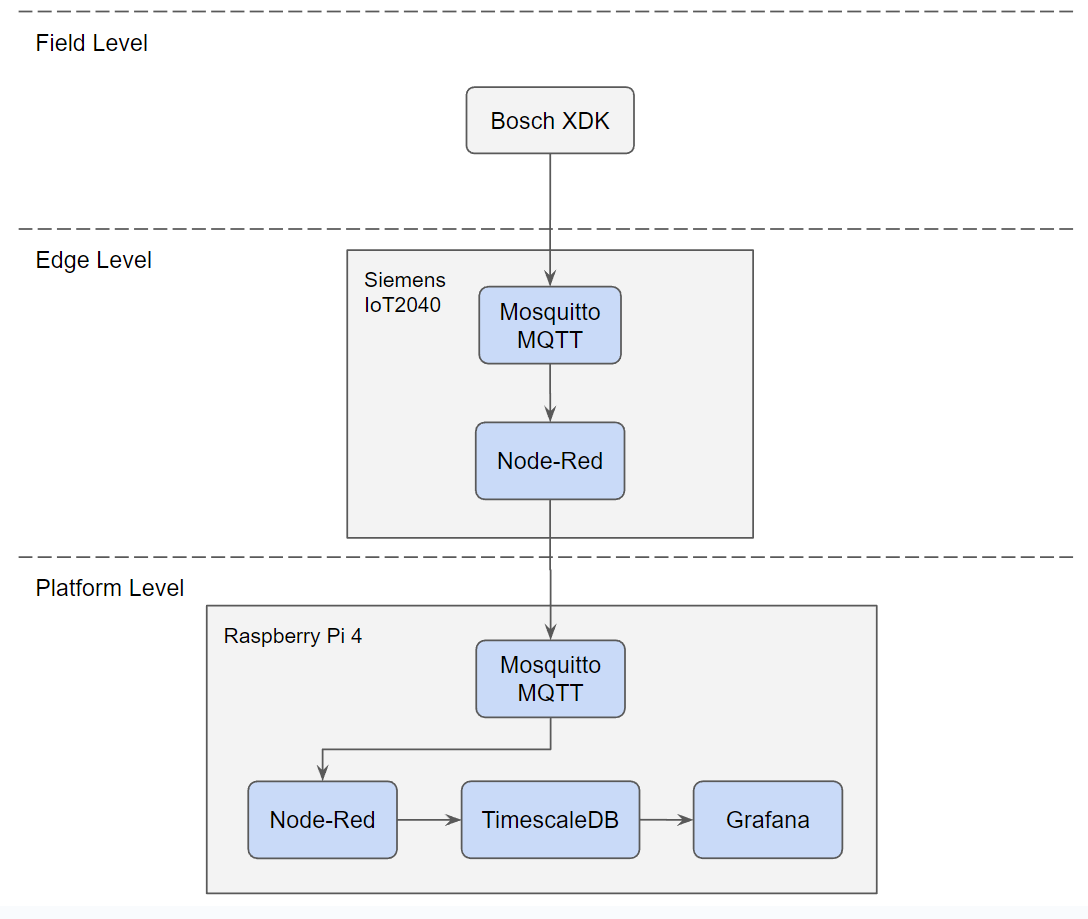
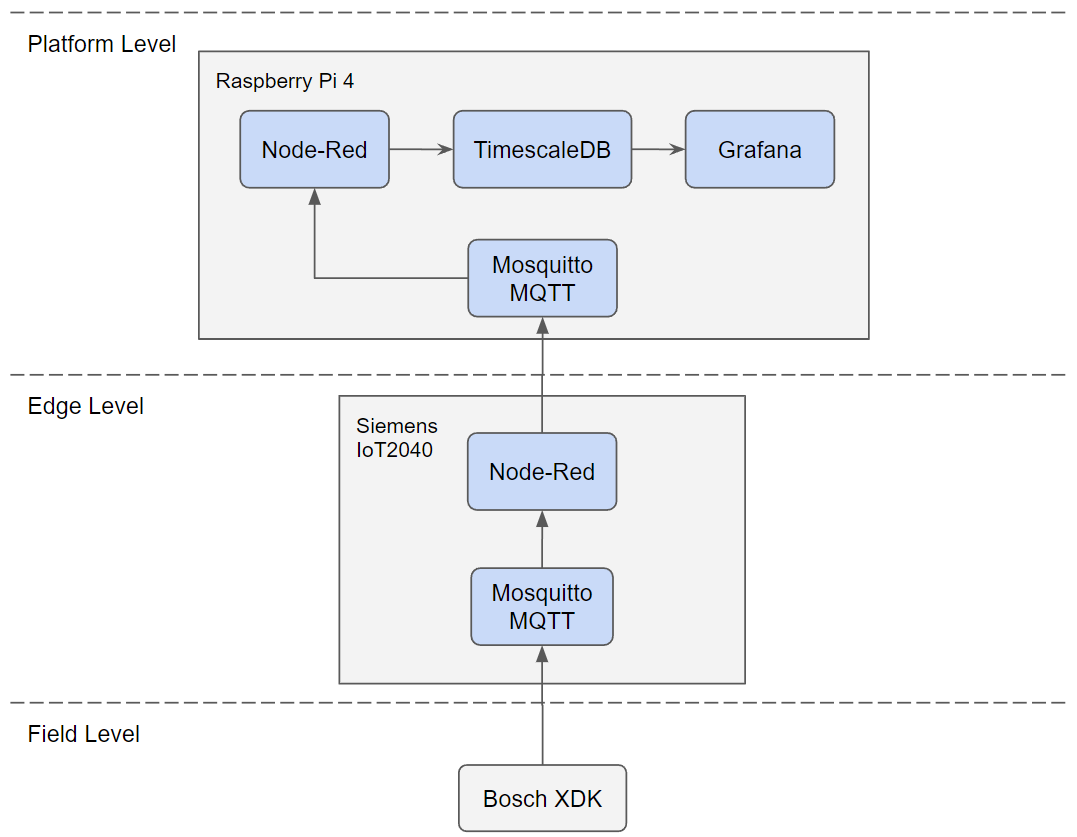
update

diff --git a/_posts/handson-iiot-demo/2023-05-15-handson-iiot-demo.md b/_posts/handson-iiot-demo/2023-05-15-handson-iiot-demo.md
@@ -3,9 +3,13 @@ title: "Hands-on: Build your own Industrial IoT Demo"
 date: 2023-05-15 19:28:11 +03:00
 tags: [Industrial IoT, Digital Manufacturing, Open Source]
 description: How to build your own Industrial IoT solution
+image: "/handson-iiot-demo/iiot_demo.jpg"
 ---
 
-
+<figure>
+<img src="/handson-iiot-demo/iiot_demo.jpg" alt="IIoT Demo Structure">
+<figcaption>IIoT Demo Structure</figcaption>
+</figure>
 Even though there are various off-the-shelf Industrial IoT solutions on the market, developing your own solution from scratch can offer huge advantages in terms of flexibility, control, and cost-effectiveness. Also, it provides a deeper understanding of the complete architecture of Industrial IoT systems and their specific requirements. In this article, we will dive into the practical aspects and explore the process of creating our own Industrial IoT demo, covering every layer from the field level up to the visualization layer. I hope you will gain valuable insights into both the hardware and software setup, enabling you to build a customized stack using open-source solutions. Let’s embark on this hands-on journey to unleash the true potential of Industrial IoT.
 
 ## **Use Case**
